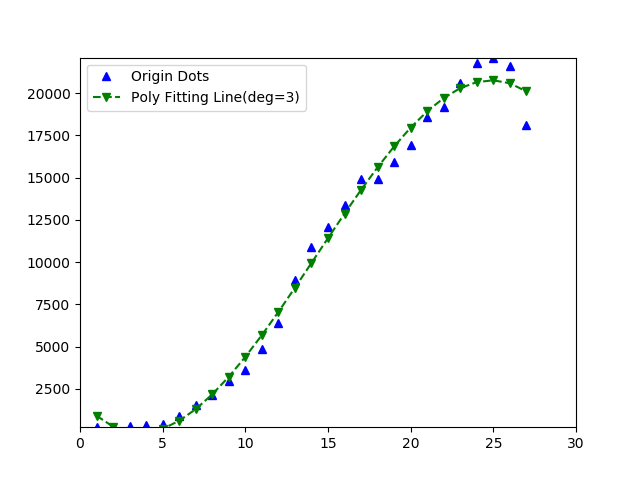
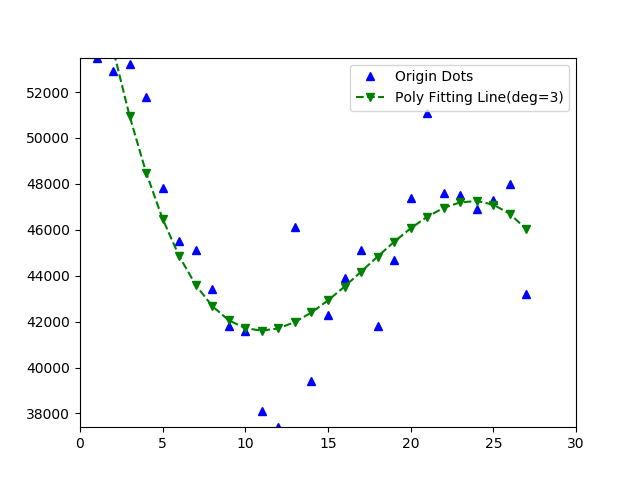
修改

diff --git a/Main.py b/Main.py
@@ -6,7 +6,7 @@ import Utilities as util
 
 x = np.arange(1, 28, 1)
 y = np.array([
-    226, 265, 279, 369, 437, 906, 1530, 2150, 2960, 3620, 4830, 6400, 8950, 10900, 12100, 13400, 14900, 14900, 15900, 16900, 18600, 19200, 20600, 21800, 22100, 21600, 18100
+53500, 52900, 53200, 51800, 47800, 45500, 45100, 43400, 41800, 41600, 38100, 37400, 46100, 39400, 42300, 43900, 45100, 41800, 44700, 47400, 51100, 47600, 47500, 46900, 47300, 48000, 43200
 ])
 
 y_pred = util.predictWithPolyFunction(x, y)

diff --git a/Test.py b/Test.py
@@ -5,7 +5,7 @@ import pylab as pl
 
 x = np.arange(1, 28, 1)
 y = np.array([
-226, 265, 279, 369, 437, 906, 1530, 2150, 2960, 3620, 4830, 6400, 8950, 10900, 12100, 13400, 14900, 14900, 15900, 16900, 18600, 19200, 20600, 21800, 22100, 21600, 18100
+53500, 52900, 53200, 51800, 47800, 45500, 45100, 43400, 41800, 41600, 38100, 37400, 46100, 39400, 42300, 43900, 45100, 41800, 44700, 47400, 51100, 47600, 47500, 46900, 47300, 48000, 43200
 ])
 
 
